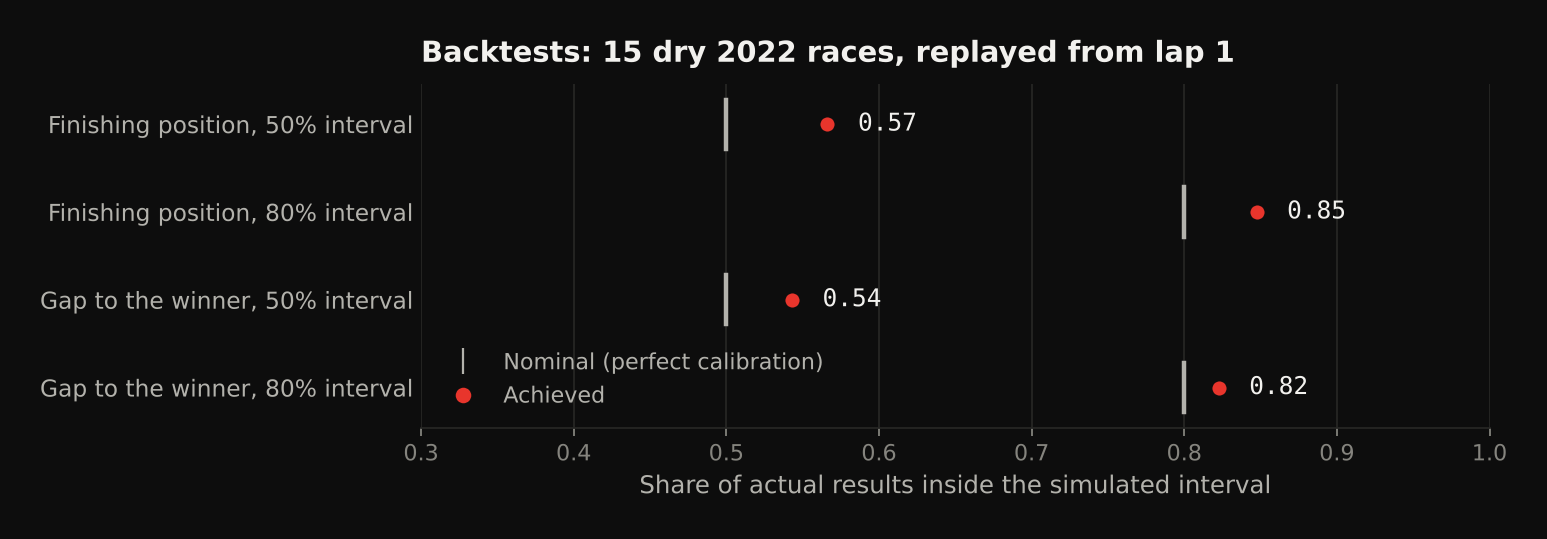
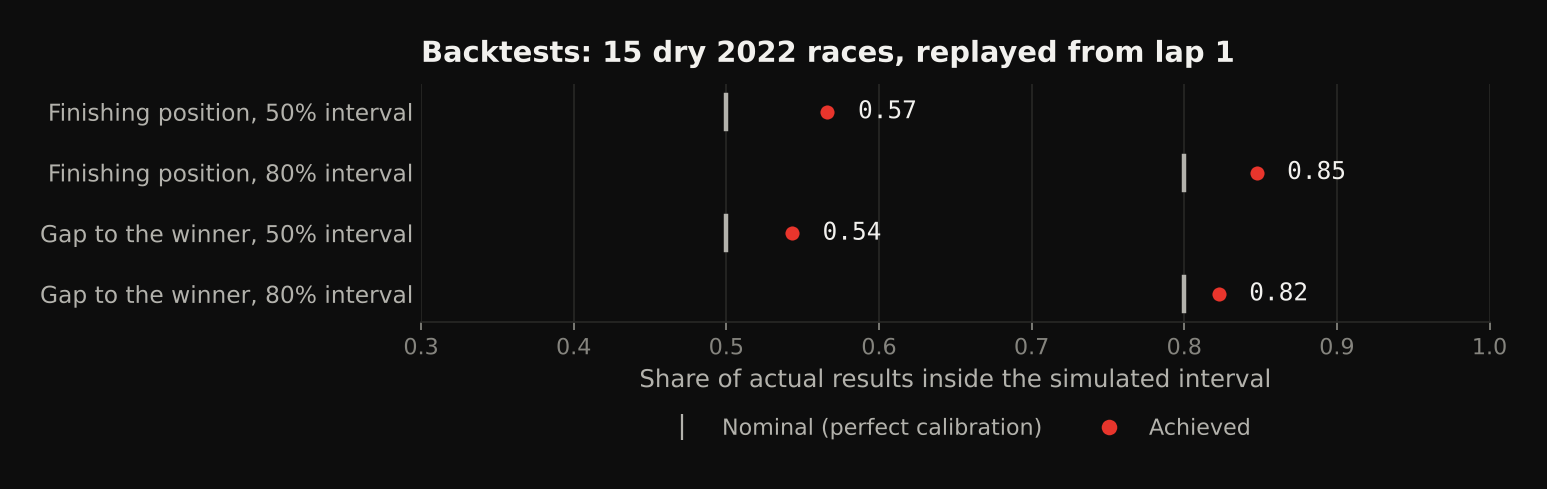
Tests: check the figure tables round-trip the result values exactly instead of comparing PNG bytes (fonts differ on CI); CI prints the slowest tests; calibration legend below the axis
Claude-Session: https://claude.ai/code/session_01CBis2eJHWZPz9BwpzoxWK9

diff --git a/tests/test_figures.py b/tests/test_figures.py
@@ -1,19 +1,40 @@
-"""Figures redraw from data/figures alone, matching the committed images."""
+"""Every figure draws from data/figures alone, and the tables carry exactly
+the values in the result files they were extracted from."""
 
+import json
 import re
 from pathlib import Path
 
+import pytest
+
 from f1strat import figure_data as fd
+from f1strat.case_study import _merged
 from f1strat.figures import case_study_figures
 
 ROOT = Path(__file__).resolve().parents[1]
+RESULTS = ROOT / "reports" / "figures"
 
 
-def test_case_study_figures_match_committed_bytes(tmp_path: Path) -> None:
-    paths = case_study_figures(tmp_path)
-    assert len(paths) == 19
-    for p in paths:
-        assert p.read_bytes() == (ROOT / "reports" / "figures" / p.name).read_bytes(), p.name
+@pytest.mark.parametrize("stem", list(fd.CASE_STEMS))
+def test_tables_round_trip_the_results_exactly(stem: str) -> None:
+    r = json.loads((RESULTS / f"case_{stem}_results.json").read_text())
+    main = r["checks"][0]
+    rebuilt, _ = fd.points_main(fd.read(f"case_{stem}_points"))
+    assert _merged(rebuilt) == _merged(main)
+    for joined, _plan in _merged(main):
+        n = joined.split(" = ")[0]
+        assert rebuilt["measure"][n]["mean_points"] == main["measure"][n]["mean_points"]
+        assert rebuilt["measure"][n]["points_dist"] == {
+            k: v for k, v in main["measure"][n]["points_dist"].items()
+        }
+    checks = fd.sensitivity_checks(fd.read(f"case_{stem}_sensitivity"))
+    assert [c["primary"]["mean_loss"] for c in checks] == [
+        c["primary"]["mean_loss"] for c in r["checks"]
+    ]
+
+
+def test_figures_draw_from_data_figures(tmp_path: Path) -> None:
+    assert len(case_study_figures(tmp_path)) == 19
 
 
 def test_every_figure_in_the_docs_has_its_table() -> None:
@@ -21,7 +42,7 @@ def test_every_figure_in_the_docs_has_its_table() -> None:
         (ROOT / "docs" / n).read_text()
         for n in ("case_studies.md", "validation.md", "model.md", "simulator.md")
     )
-    shown = set(re.findall(r"reports/figures/([\w]+)\.png", text))
+    shown = set(re.findall(r"reports/figures/(\w+)\.png", text))
     tables = {p.name.split(".")[0] for p in fd.DATA_DIR.iterdir()}
     backtest = {
         "backtest_pit",

diff --git a/src/f1strat/readme_assets.py b/src/f1strat/readme_assets.py
@@ -572,7 +572,13 @@ def fig_calibration(theme: str) -> Path:
         h2 = plt.Line2D(
             [], [], ls="", marker="o", ms=8, color=c["red"], mec=c["bg"], label="Achieved"
         )
-        ax.legend(handles=[h1, h2], loc="lower left", labelcolor=c["ink2"])
+        ax.legend(
+            handles=[h1, h2],
+            loc="upper center",
+            bbox_to_anchor=(0.5, -0.32),
+            ncol=2,
+            labelcolor=c["ink2"],
+        )
         fig.tight_layout()
         return _save(fig, "fig_calibration", theme)
 
@@ -644,8 +650,14 @@ def hero(theme: str, fan: pd.DataFrame, real: pd.Series) -> tuple[Path, Path]:
                 fontsize=9,
             )
             if upto >= 40:
-                ax.text(39.5, lo + 2.5, "laps 39–40:\nboth cars pit", ha="center",
-                        color=c["muted"], fontsize=8.5)
+                ax.text(
+                    39.5,
+                    lo + 2.5,
+                    "laps 39–40:\nboth cars pit",
+                    ha="center",
+                    color=c["muted"],
+                    fontsize=8.5,
+                )
             if upto >= 54:
                 ax.annotate(
                     "lap 54: second stop\n(judged separately)",
